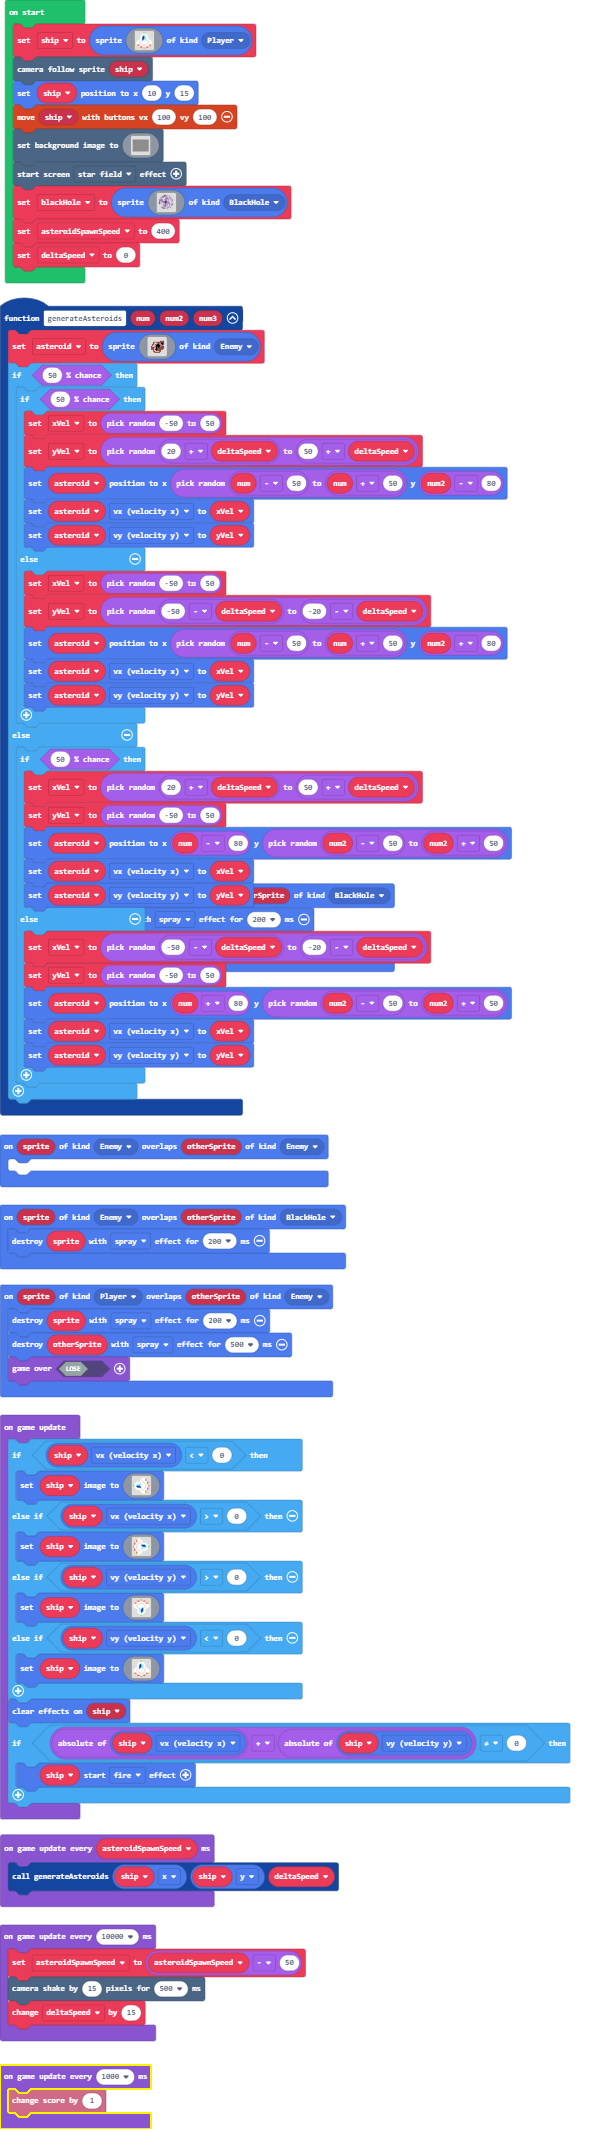
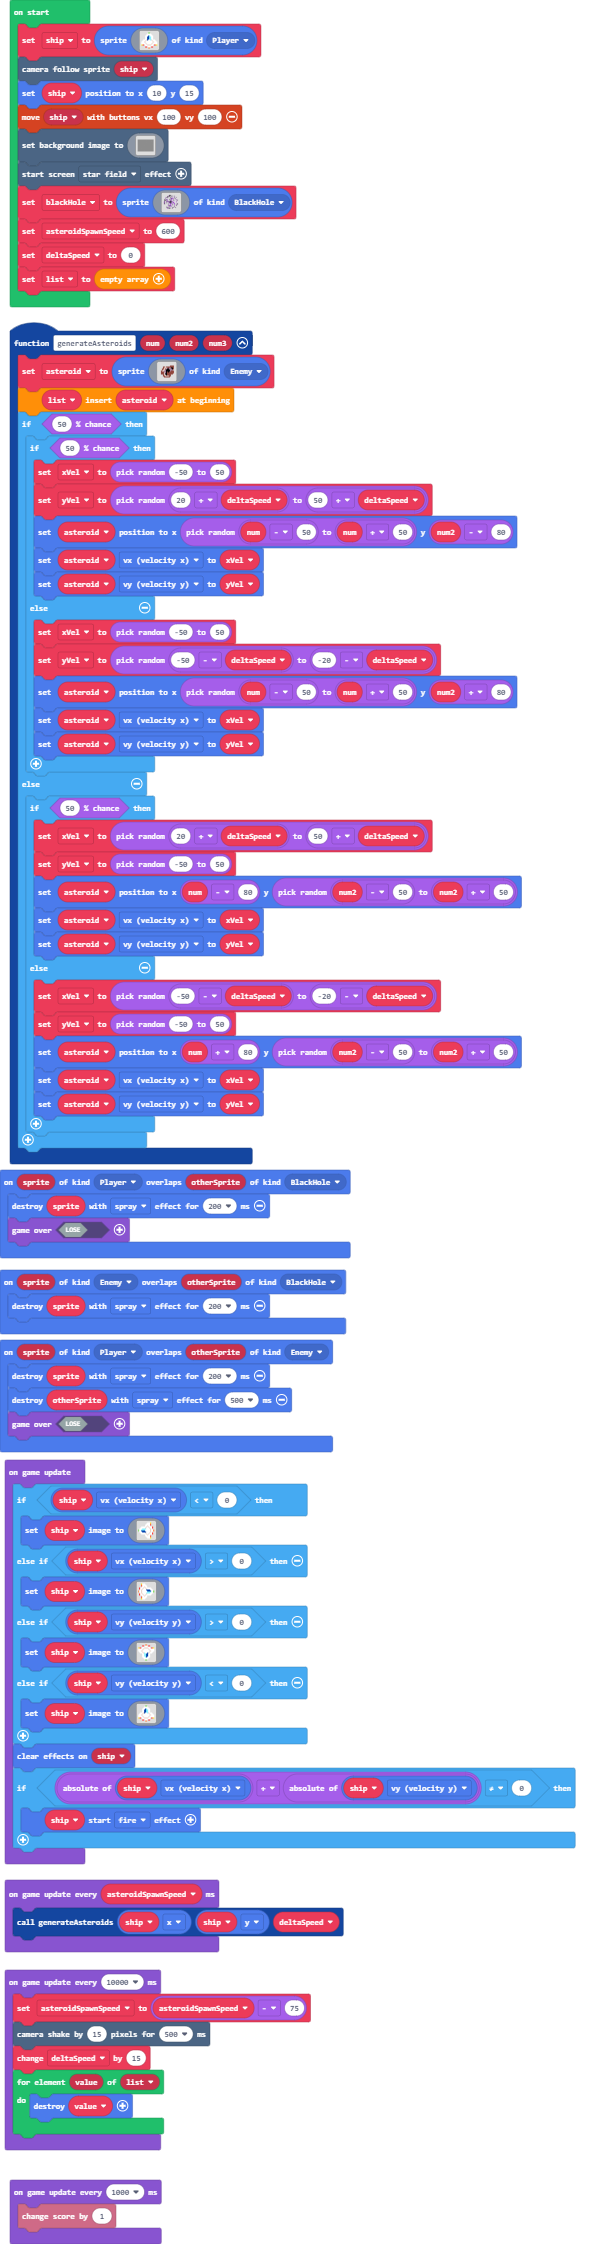
Update main.blocks, main.ts

diff --git a/main.ts b/main.ts
@@ -9,9 +9,6 @@ namespace SpriteKind {
 sprites.onOverlap(SpriteKind.Enemy, SpriteKind.BlackHole, function (sprite, otherSprite) {
     sprite.destroy(effects.spray, 200)
 })
-sprites.onOverlap(SpriteKind.Enemy, SpriteKind.Enemy, function (sprite, otherSprite) {
-	
-})
 function generateAsteroids (num: number, num2: number, num3: number) {
     asteroid = sprites.create(img`
         . . . . . . . . . . . . . . . . 
@@ -31,6 +28,7 @@ function generateAsteroids (num: number, num2: number, num3: number) {
         . . . . . . . . . . . . . . . . 
         . . . . . . . . . . . . . . . . 
         `, SpriteKind.Enemy)
+    list.unshift(asteroid)
     if (Math.percentChance(50)) {
         if (Math.percentChance(50)) {
             xVel = randint(-50, 50)
@@ -73,6 +71,7 @@ sprites.onOverlap(SpriteKind.Player, SpriteKind.Enemy, function (sprite, otherSp
 let yVel = 0
 let xVel = 0
 let asteroid: Sprite = null
+let list: Sprite[] = []
 let deltaSpeed = 0
 let ship = sprites.create(img`
     . . . . . . . 7 7 . . . . . . . 
@@ -244,8 +243,9 @@ let blackHole = sprites.create(img`
     ........................
     ........................
     `, SpriteKind.BlackHole)
-let asteroidSpawnSpeed = 400
+let asteroidSpawnSpeed = 600
 deltaSpeed = 0
+list = []
 game.onUpdate(function () {
     if (ship.vx < 0) {
         ship.setImage(img`
@@ -336,7 +336,10 @@ game.onUpdateInterval(asteroidSpawnSpeed, function () {
     generateAsteroids(ship.x, ship.y, deltaSpeed)
 })
 game.onUpdateInterval(10000, function () {
-    asteroidSpawnSpeed = asteroidSpawnSpeed - 50
+    asteroidSpawnSpeed = asteroidSpawnSpeed - 75
     scene.cameraShake(15, 500)
     deltaSpeed += 15
+    for (let value of list) {
+        value.destroy()
+    }
 })
